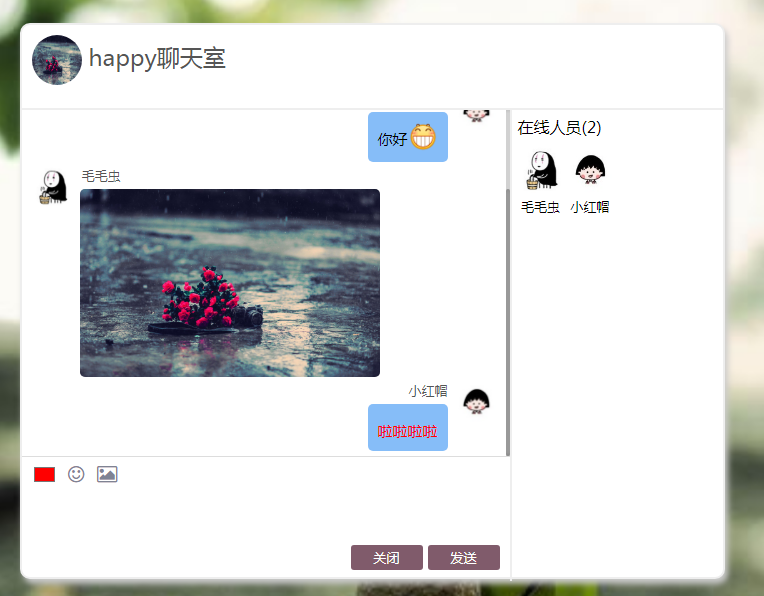
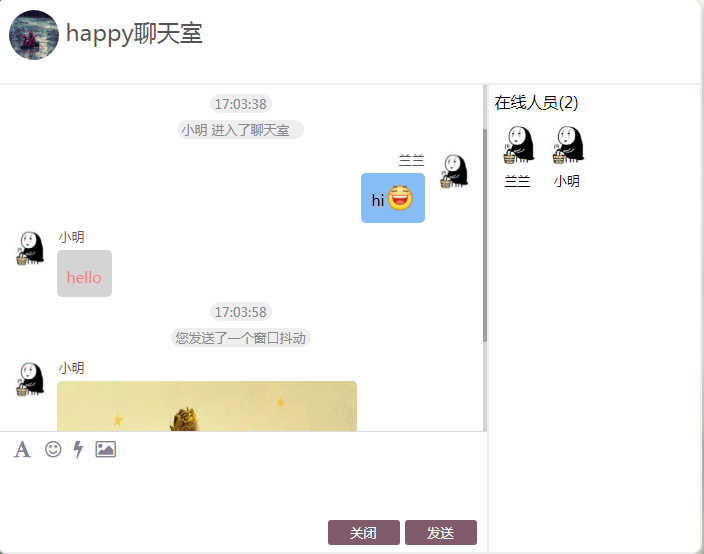
发送窗口震动

diff --git a/www/style/index.css b/www/style/index.css
@@ -49,6 +49,8 @@ body {
     border-radius: 10px;  
     box-shadow: 3px 5px 9px #ccc;
     background-color: rgba(255, 255, 255, 1);
+    position: relative;
+    left: 0;
 }
 .header {
     height: 85px;
@@ -84,10 +86,12 @@ body {
 }
 #messages::-webkit-scrollbar-thumb {/*滚动条里面小方块*/
     border-radius: 5px;
+    box-shadow: inset 0 0 5px rgba(0,0,0,0.2);
     -webkit-box-shadow: inset 0 0 5px rgba(0,0,0,0.2);
     background: rgba(0,0,0,0.2);
 }
 #messages::-webkit-scrollbar-track {/*滚动条里面轨道*/
+    box-shadow: inset 0 0 5px rgba(0,0,0,0.2);
     -webkit-box-shadow: inset 0 0 5px rgba(0,0,0,0.2);
     border-radius: 0;
     background: rgba(0,0,0,0.1);
@@ -190,6 +194,7 @@ form {
 }
 .edit i {
     padding: 5px 6px;
+    cursor: pointer;
 }
 .edit i:hover {
     background-color: #e2e2e2 !important;
@@ -201,7 +206,24 @@ form {
     left: 0px;
     z-index: 3;
     background-color: #fff;
-} 
+}  
+.shaking {
+    animation: run 0.2s infinite;
+}
+@keyframes run {
+    0% {
+        left: 0;
+    }
+    25% {
+        left: -7px;
+    }
+    50% {
+        left: 7px;
+    }
+    100% {
+        left: 0;
+    }
+}
 .edit #file {
     width: 32.36px;
     height: 29px;
@@ -217,9 +239,18 @@ form {
     border: none;
     cursor: pointer;
     background: none;
+    opacity: 0;
+    position: relative;
+    z-index: 5;
 }
 #color:focus {
     outline: none;
+}
+.edit #font {
+    position: absolute;
+    left: 9px;
+    top: 3px;
+    z-index: 0;
 }
 .smile {
     width: 460px;
@@ -270,28 +301,16 @@ form {
 }
 .emoji::-webkit-scrollbar-thumb {/*滚动条里面小方块*/
     border-radius: 5px;
+    box-shadow: inset 0 0 5px rgba(0,0,0,0.2);
     -webkit-box-shadow: inset 0 0 5px rgba(0,0,0,0.2);
     background: rgba(0,0,0,0.2);
 }
 .emoji::-webkit-scrollbar-track {/*滚动条里面轨道*/
+    box-shadow: inset 0 0 5px rgba(0,0,0,0.2);
     -webkit-box-shadow: inset 0 0 5px rgba(0,0,0,0.2);
     border-radius: 0;
     background: rgba(0,0,0,0.1);
-}
-
-
-
-
-
-
-
-
-
-
-
-
-
-
+} 
 
 textarea {
     display: block;
@@ -315,10 +334,12 @@ textarea::-webkit-scrollbar {/*滚动条整体样式*/
 }
 textarea::-webkit-scrollbar-thumb {/*滚动条里面小方块*/
     border-radius: 5px;
+    box-shadow: inset 0 0 5px rgba(0,0,0,0.2);
     -webkit-box-shadow: inset 0 0 5px rgba(0,0,0,0.2);
     background: rgba(0,0,0,0.2);
 }
 textarea::-webkit-scrollbar-track {/*滚动条里面轨道*/
+    box-shadow: inset 0 0 5px rgba(0,0,0,0.2);
     -webkit-box-shadow: inset 0 0 5px rgba(0,0,0,0.2);
     border-radius: 0;
     background: rgba(0,0,0,0.1);

diff --git a/www/js/chat-client.js b/www/js/chat-client.js
@@ -37,6 +37,15 @@ $(function() {
       $('#messages').scrollTop($('#messages')[0].scrollHeight);
     });
 
+    // 监听抖动事件
+    socket.on('shake', (user)=> { 
+      var data = new Date().toTimeString().substr(0, 8);
+      $('#messages').append(`<p class='system'><span>${data}</span><br /><span>${user.name}发送了一个窗口抖动</span></p>`);
+      shake();
+      // 滚动条总是在最底部
+      $('#messages').scrollTop($('#messages')[0].scrollHeight);
+    });
+
     // 显示在线人员
     socket.on('disUser', (usersInfo)=> {
       displayUser(usersInfo);
@@ -51,7 +60,7 @@ $(function() {
     });
 
     // 接收消息
-    socket.on('receiveMsg', (obj)=> { 
+    socket.on('receiveMsg', (obj)=> {  
       // 发送为图片
       if(obj.type == 'img') {
         $('#messages').append(`
@@ -111,6 +120,15 @@ $(function() {
       return false; 
     }
 
+    var timer;
+    function shake() {
+      $('.main').addClass('shaking');
+      clearTimeout(timer);
+      timer = setTimeout(()=> {
+        $('.main').removeClass('shaking');
+      }, 500);
+    }
+
     // 显示在线人员
     function displayUser(users) {
       $('#users').text(''); // 每次都要重新渲染
@@ -162,6 +180,11 @@ $(function() {
         var old = $('#m').val();
         $('#m').val(old+'[emoji'+emoji+']');
         $('.selectBox').css('display', "none");
+    });
+
+    // 用户发送抖动
+    $('.edit #shake').click(function() {
+        socket.emit('shake');
     });
 
     // 用户发送图片

diff --git a/www/index.html b/www/index.html
@@ -26,7 +26,9 @@
               <form action="">
                   <div class="edit"> 
                     <input type="color" id="color" value="#000000">
-                    <i title="双击取消选择" class="fa fa-smile-o" id="smile">
+                    <i title="自定义字体颜色" id="font" class="fa fa-font">
+                    </i><i title="双击取消选择" class="fa fa-smile-o" id="smile">
+                    </i><i title="单击页面震动" id="shake" class="fa fa-bolt">
                     </i>
                     <input type="file" id="file">
                     <i class="fa fa-picture-o" id="img"></i>

diff --git a/server.js b/server.js
@@ -40,6 +40,16 @@ io.on('connection', (socket)=> {
         }
     });
 
+    // 发送窗口抖动
+    socket.on('shake', ()=> {
+        socket.emit('shake', {
+            name: '您'
+        });
+        socket.broadcast.emit('shake', {
+            name: socket.nickname
+        });
+    });
+
     // 发送消息事件
     socket.on('sendMsg', (data)=> {
         var img = '';

diff --git a/README.md b/README.md
@@ -22,6 +22,5 @@ node server.js
 - 接收与发送消息 
 - 自定义消息字体颜色
 - 支持发送表情
-- 支持发送图片
-## 有待完成
-- 窗口震动
+- 支持发送图片 
+- 支持发送窗口震动
